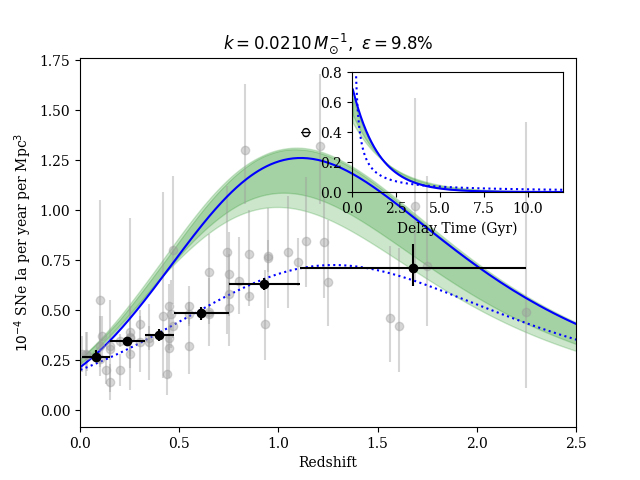
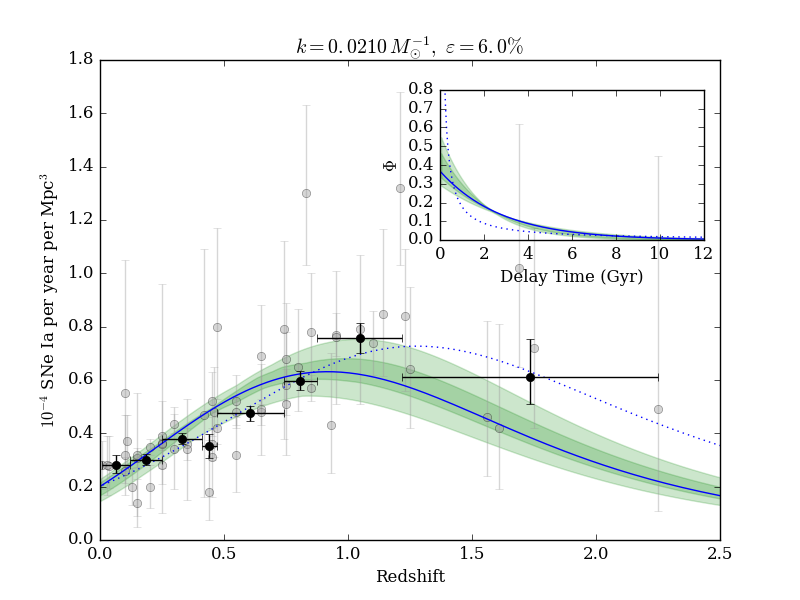
modified:   eval_dtdmodel_v2.py 	modified:   figure_fit_demo_werr.png 	modified:   figure_sfd_corners.png

diff --git a/analysis/scripts/eval_dtdmodel_v2.py b/analysis/scripts/eval_dtdmodel_v2.py
@@ -25,8 +25,8 @@ if __name__=='__main__':
     dt = 0.05
     age=13.6
     tt = arange(dt,age,dt)
-    p_val = [-2.32, -1845., 52., 220.]
-    p_err = [[0.07, -0.06],
+    p_val = [-2.810, -1257, 59.3, 248.9]
+    p_err = [[0.05, -0.05],
              [839., -596.],
              [14., -16.],
              [191., -186.]
@@ -50,8 +50,7 @@ if __name__=='__main__':
     tta = linspace(min(tt), max(tt), 300)
     print('%d total samples' %len(temp))
     samples = temp
-    print(samples)
-    ndraws = 11
+    ndraws = 21
     draws  = samples[np.random.randint(0, len(samples), ndraws),:]
     ysample = asarray([rz.dtdfunc(tta, *pi[1:-1]) for pi in draws])
 
@@ -75,7 +74,7 @@ if __name__=='__main__':
     rates = loadtxt('SNeIa_rates.txt')
     rates[:,1:] = rates[:,1:]#*1.0e-4 ## put on the right scale
     rates = rates[:,:4]
-    brates = u.gimme_rebinned_data(rates,splits=arange(0,1.167,0.167).tolist())
+    brates = u.gimme_rebinned_data(rates,splits=arange(0,1.125,0.125).tolist())
     scale_k = quad(imf.salpeter,3,8)[0]/quad(imf.salpeter1,0.1,125)[0]
     scale = scale_k * 0.7**2.*1e4## factors of h...
     lbt = age - tta
